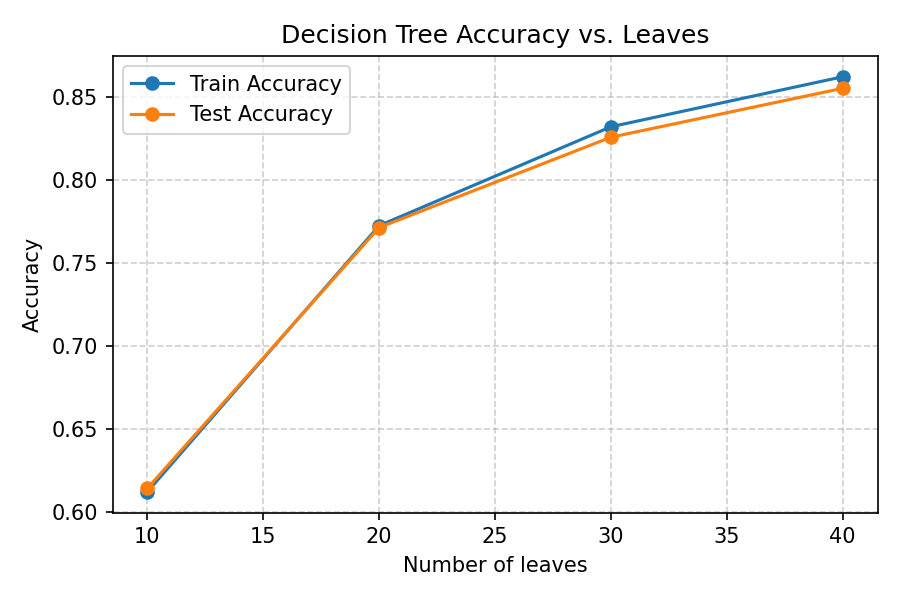
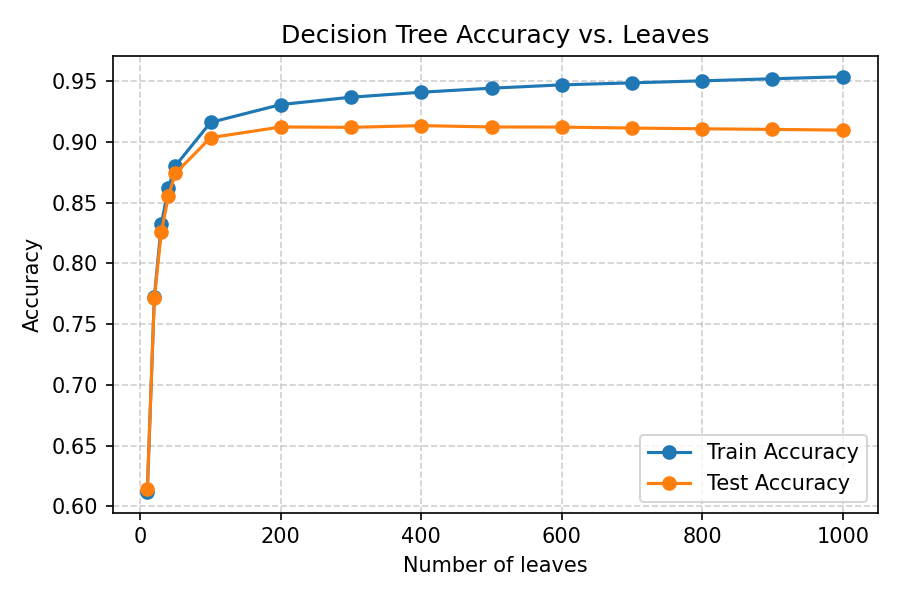
Add decision tree v2 implementation and improve training/testing output

diff --git a/decision_tree_v2.py b/decision_tree_v2.py
@@ -1,25 +1,25 @@
 import numpy as np
 from scipy import stats
-import heapq
 
+# vanilla decision tree classifier that uses the provided 45 linear-regression values as features for MNIST.
 class DecisionTree:
     # Node subclass to handle the graph structure
     class Node:
-        """ internal class for tree nodes """
+        # internal class for tree nodes
         def __init__(self, indices):
-            self.prediction = None     
-            self.feature_index = None  
-            self.threshold = None      
-            self.l_child = None       
-            self.r_child = None       
-            self.indices = indices  
-            self.best_split = None       
+            self.prediction = None     # predicted class for leaf nodes
+            self.feature_index = None  # feature index to split on
+            self.threshold = None      # threshold value to split on
+            self.l_child = None       # left child node
+            self.r_child = None       # right child node
+            self.indices = indices  # indices of samples that reach this node
+            self.best_split = None       # cached best split info during training
 
 
-    def __init__(self, num_classes, num_leaves):
-        self.num_classes = num_classes 
-        self.num_leaves = num_leaves 
-        self.tree_root = None 
+    def __init__(self, num_classes, num_leaves): # initialize the decision tree with number of classes and leaves
+        self.num_classes = num_classes # number of unique class labels
+        self.num_leaves = num_leaves # maximum number of leaves in the tree
+        self.tree_root = None # root node of the decision tree
 
     def best_split(self, f_column, Y):
         """
@@ -29,6 +29,7 @@ class DecisionTree:
         """
         n_samples = Y.size
 
+        # if no samples, return None
         if n_samples == 0:
             return None, float('inf'), None, None
 
@@ -48,6 +49,9 @@ class DecisionTree:
 
         # Initialize counts for left and right splits
         left_counts = np.zeros(self.num_classes).astype(int)
+        # right_counts = np.zeros(self.num_classes).astype(int)
+        # for label in sorted_labels:
+        #     right_counts[label] += 1
         right_counts = np.bincount(sorted_labels, minlength=self.num_classes).astype(int)
 
         for i in range(n_samples - 1):
@@ -135,47 +139,50 @@ class DecisionTree:
 
         leaves = [self.tree_root]  # list of current leaf nodes
 
-        # Heap priority queue to avoid recomputing best splits for all leaves every iteration
-        leaves_heap = []
-        counter = 0  # to break ties in heapq
-        
         # Compute and attach best split info to a leaf
         def compute_node_split(leaf):
-            nonlocal counter
             feat, thresh, split_loss, l_pred, r_pred, loss_before, leaf_pred = self.split_node(leaf.indices, X, Y)
-            loss_reduction = loss_before - split_loss
             leaf.best_split = {
                 "feature": feat, "threshold": thresh,
                 "loss_after": split_loss, "loss_before": loss_before,
                 "l_pred": l_pred, "r_pred": r_pred, "leaf_pred": leaf_pred
             }
-            heapq.heappush(leaves_heap, (-loss_reduction, counter, leaf))
-            counter += 1
-
+                
         # Precompute best split for root
         compute_node_split(self.tree_root)
         print("Root best split={} with indices count={}".format(self.tree_root.best_split, len(self.tree_root.indices)))
 
-        """ Grow the tree by greedily adding splits to the leaf that most reduces the overall loss until reaching the 
-        specified number of leaves or no further splits improve the loss """
+        # Grow the tree by greedily adding splits to the leaf that most reduces the overall loss until reaching the specified number of leaves or no further splits improve the loss
         print("\nGrowing the tree...")
-        iteration_id = 0
-        max_iterations = max(1, num_leaves)
-        while len(leaves) < max_iterations and leaves_heap:
-            iteration_id += 1
-            # return the smallest loss from the heap, split the leaf with the biggest gain (loss reduction)
-            neg_loss_reduction, _, leaf_to_split = heapq.heappop(leaves_heap) 
-            loss_reduction = -neg_loss_reduction
-            bs = leaf_to_split.best_split             
+        round_id = 0
+        max_rounds = max(1, num_leaves)
+        while len(leaves) < max_rounds:
+            round_id += 1            
+            # compute/refresh best splits and collect improvements -- the leaf with the best (lowest) loss after split
+            candidates = []
+            for leaf in leaves:
+                # print("Evaluating leaf with indices count: {} and prediction: {}".format(len(leaf.indices), leaf.prediction))
+                if leaf.indices is None or leaf.indices.size == 0:
+                    continue
+                compute_node_split(leaf)
+                bs = leaf.best_split
+                loss_reduction = bs["loss_before"] - bs["loss_after"] # positive gain means loss is reduced
+                if bs["feature"] is not None and loss_reduction > 0:
+                    candidates.append((loss_reduction, leaf))
 
-            if bs["loss_after"] >= bs["loss_before"]:
-                print(f"Iter {iteration_id}/{max_iterations} --> No improving splits remain. Stop.")
-                continue
+            if not candidates:
+                print(f"Iter {round_id}/{max_rounds} -- No improving splits remain. Stop.")
+                break
             else:
-                print(f"Iter {iteration_id}/{max_iterations} --> Leaves={len(leaves)}, improving_splits={len(leaves_heap)}, best_gain={loss_reduction}, prediction={bs['leaf_pred']}")
+                loss_reductions_sorted = sorted([g for g,_ in candidates], reverse=True)
+                print(f"Iter {round_id}/{max_rounds} -- Leaves={len(leaves)}, improving_splits={len(candidates)}, best_gain={loss_reductions_sorted[0]}")
 
+            # Sort loss reductions in descending order and pick the best leaf - positive gain means loss is reduced
+            candidates.sort(reverse=True, key=lambda x: x[0])
+            _, leaf_to_split = candidates[0]
+            bs = leaf_to_split.best_split
             feat, thresh = bs["feature"], bs["threshold"]
-            print(f"  -> Split leaf |indices_count|={len(leaf_to_split.indices)} on feature={feat}, threshold={thresh:.6f}, loss_before={bs['loss_before']}, loss_after={bs['loss_after']}")
+            print(f"  -> Split leaf |indices|={len(leaf_to_split.indices)} on feature={feat}, threshold={thresh:.6f}, loss_before={bs['loss_before']}, loss_after={bs['loss_after']}")
 
             # Perform the split - partition the indices
             X_node = X[leaf_to_split.indices]
@@ -209,12 +216,14 @@ class DecisionTree:
             leaves.remove(leaf_to_split)
             leaves.extend([l_node, r_node])
 
-            print(f"     -> Left: indices_count={len(l_node.indices)}, prediction={l_node.prediction} || Right: indices_count={len(r_node.indices)}, prediction={r_node.prediction} || total leaves={len(leaves)}\n")
+            print(f"     -> Left: count={len(l_node.indices)}, prediction={l_node.prediction} || Right: count={len(r_node.indices)}, prediction={r_node.prediction} || total leaves={len(leaves)}\n")
             
-            # Precompute best splits for the new leaves
-            compute_node_split(l_node)
-            compute_node_split(r_node)
-            
+            # # Precompute best splits for the new leaves
+            # compute_node_split(l_node)
+            # compute_node_split(r_node)
+            # print("\n")
+
+        # print(f"DONE Final leaves={len(leaves)}\n")
 
     # Predict the class labels for the input samples
     def predict(self, X):

diff --git a/decision_tree_classification.py b/decision_tree_classification.py
@@ -82,16 +82,16 @@ if __name__ == "__main__":
         model.train(X_train_features, labels_train)
         train_sec = time.perf_counter() - t_0
         train_min = train_sec / 60
-        print(f"[Timing] training time = {train_min:.2f}min")
+        print(f"Timing training time = {train_min:.2f}min")
 
         print("\nTesting...")
         test_accuracy = model.test(X_test_features, labels_test)
         train_accuracy = model.test(X_train_features, labels_train)
-        print("[Test] accuracy={:.2f}%".format(test_accuracy * 100))
-        print("[Train] accuracy={:.2f}%".format(train_accuracy * 100))
+        print("Test accuracy={:.2f}%".format(test_accuracy * 100))
+        print("Train accuracy={:.2f}%".format(train_accuracy * 100))
         results.append((leaves, train_min, float(test_accuracy), float(train_accuracy)))
 
-    # Final summary
+    
     print("\n=== Summary: Accuracy vs. Leaves ===")
     print("  Leaves | TrainTime(min) | TestAcc(%) | TrainAcc(%)")
     print("  -------+---------------+-----------+-----------")
